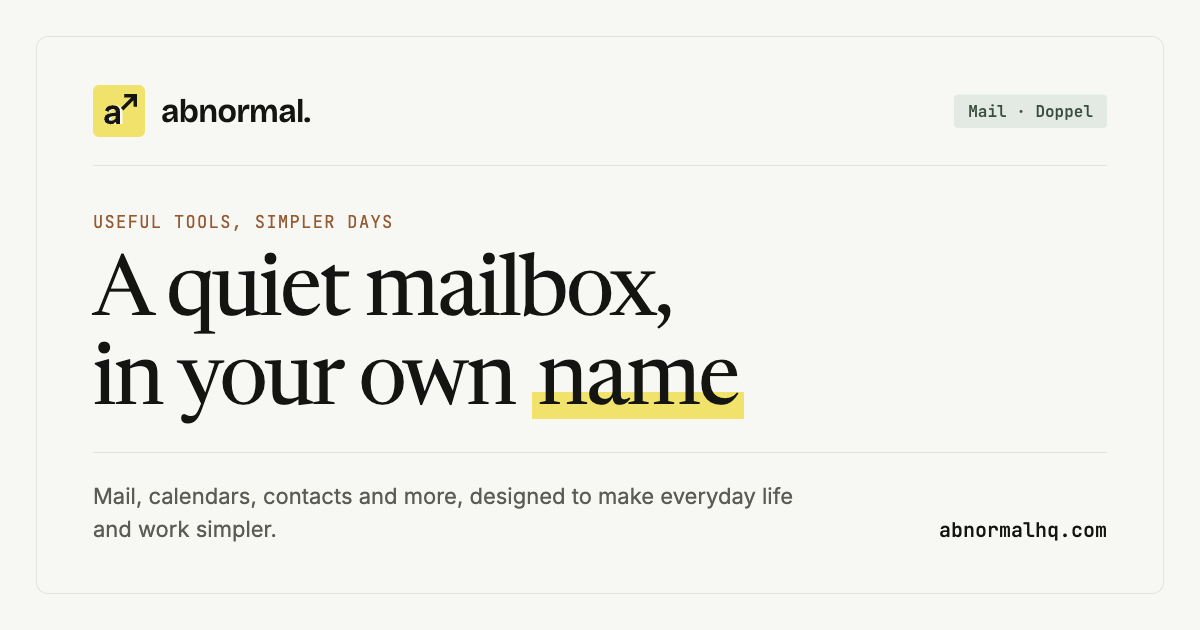
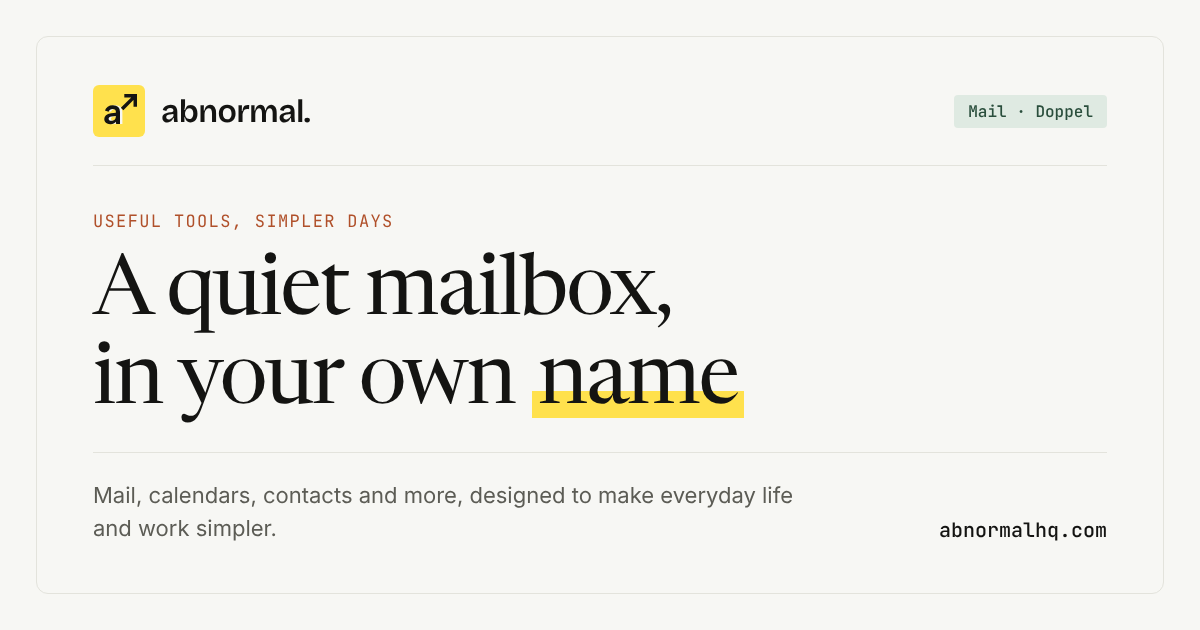
fix(og-images): render the social cards in sRGB with the brand yellow (#144)
The cards in public/og carried #f1e26c where the theme's yellow is #ffe14d. The generator now launches Chromium with
--force-color-profile=srgb, so the PNGs hold the CSS colors whatever display profile the machine has, and the cards are
regenerated with it. Chinese body text also falls back to Noto Sans SC from Google Fonts where PingFang SC is not
installed, so a machine without PingFang does not set it in whatever CJK font it has.

Claude-Session: https://claude.ai/code/session_01Bwzx8rv5sXUdZVYUPhYfeNb

diff --git a/scripts/og-images.ts b/scripts/og-images.ts
@@ -8,7 +8,9 @@
  *   og=$(mktemp -d) && pnpm --dir "$og" add playwright && pnpm --dir "$og" exec playwright install chromium
  *   NODE_PATH="$og/node_modules" node scripts/og-images.ts
  *
- * Display serif glyphs come from Newsreader and Noto Serif SC on Google Fonts, so generating needs network access.
+ * Display serif glyphs come from Newsreader and Noto Serif SC on Google Fonts, so generating needs network access. Chinese body text
+ * uses PingFang SC where it is installed and Noto Sans SC (also from Google Fonts) elsewhere, so a machine without either does not
+ * fall back to whatever CJK font it happens to have.
  */
 import { mkdirSync, readFileSync } from "node:fs";
 import { createRequire } from "node:module";
@@ -59,14 +61,14 @@ export function card(lang: Lang): string {
 <html lang="${t.htmlLang}">
 <head>
 <meta charset="utf-8">
-<link rel="stylesheet" href="https://fonts.googleapis.com/css2?family=Newsreader:opsz,wght@6..72,400;6..72,500&family=Noto+Serif+SC:wght@400;500;600&display=block">
+<link rel="stylesheet" href="https://fonts.googleapis.com/css2?family=Newsreader:opsz,wght@6..72,400;6..72,500&family=Noto+Serif+SC:wght@400;500;600&family=Noto+Sans+SC:wght@400;500&display=block">
 <style>
   @font-face { font-family: Inter; src: url(${font("Inter-Variable.woff2")}) format("woff2"); font-weight: 100 900; }
   @font-face { font-family: Bricolage; src: url(${font("BricolageGrotesque-Variable.woff2")}) format("woff2"); font-weight: 200 800; }
   @font-face { font-family: Mono; src: url(${font("JetBrainsMono-Variable.woff2")}) format("woff2"); font-weight: 100 800; }
   * { box-sizing: border-box; margin: 0; }
   body { width: 1200px; height: 630px; overflow: hidden; background: #f7f7f4; color: #141412;
-    font-family: Inter, "PingFang SC", sans-serif; position: relative; }
+    font-family: Inter, "PingFang SC", "Noto Sans SC", sans-serif; position: relative; }
   .frame { position: absolute; inset: 36px; border: 1px solid #e3e3dc; border-radius: 12px; background: #f7f7f4;
     display: flex; flex-direction: column; padding: 48px 56px; }
   .top { display: flex; justify-content: space-between; align-items: center; padding-bottom: 28px;
@@ -106,10 +108,14 @@ export function card(lang: Lang): string {
 
 const isMain = process.argv[1] && fileURLToPath(import.meta.url) === process.argv[1];
 if (isMain) {
-  const { chromium } = createRequire(import.meta.url)("playwright") as { chromium: { launch(): Promise<Browser> } };
+  const { chromium } = createRequire(import.meta.url)("playwright") as {
+    chromium: { launch(options: { args: string[] }): Promise<Browser> };
+  };
   const outDir = new URL("public/og/", root);
   mkdirSync(outDir, { recursive: true });
-  const browser = await chromium.launch();
+  // Render in sRGB whatever the machine's display profile, so the cards carry the exact theme colors (the brand yellow stays
+  // #ffe14d): an earlier pair of cards came out with #f1e26c in its place.
+  const browser = await chromium.launch({ args: ["--force-color-profile=srgb"] });
   try {
     const page = await browser.newPage({ viewport: { width: 1200, height: 630 }, deviceScaleFactor: 1 });
     for (const lang of ["zh", "en"] as const) {
